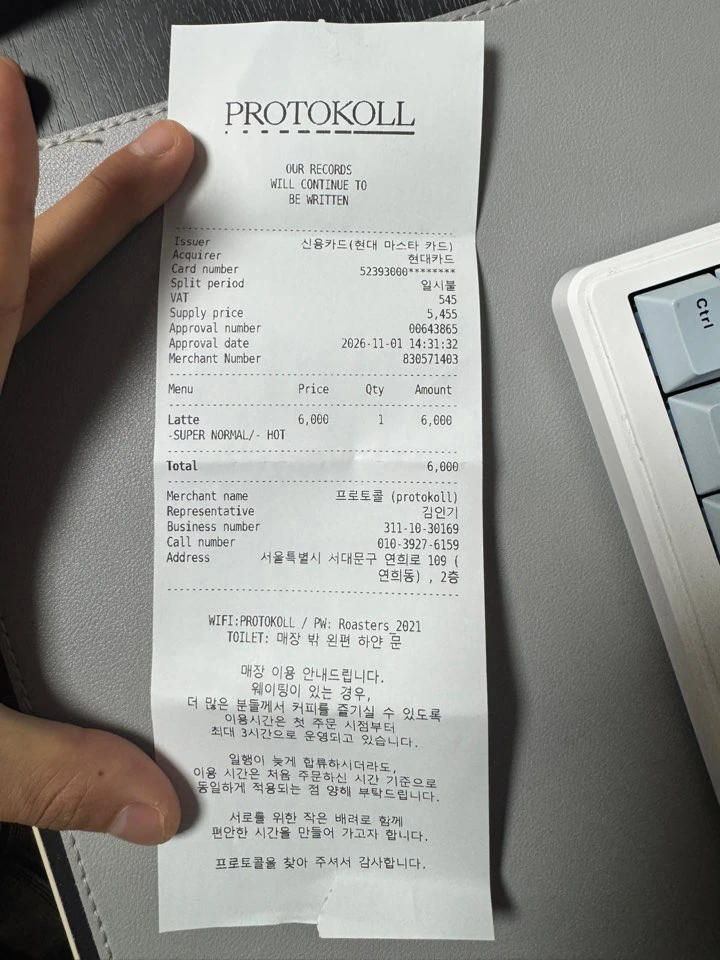
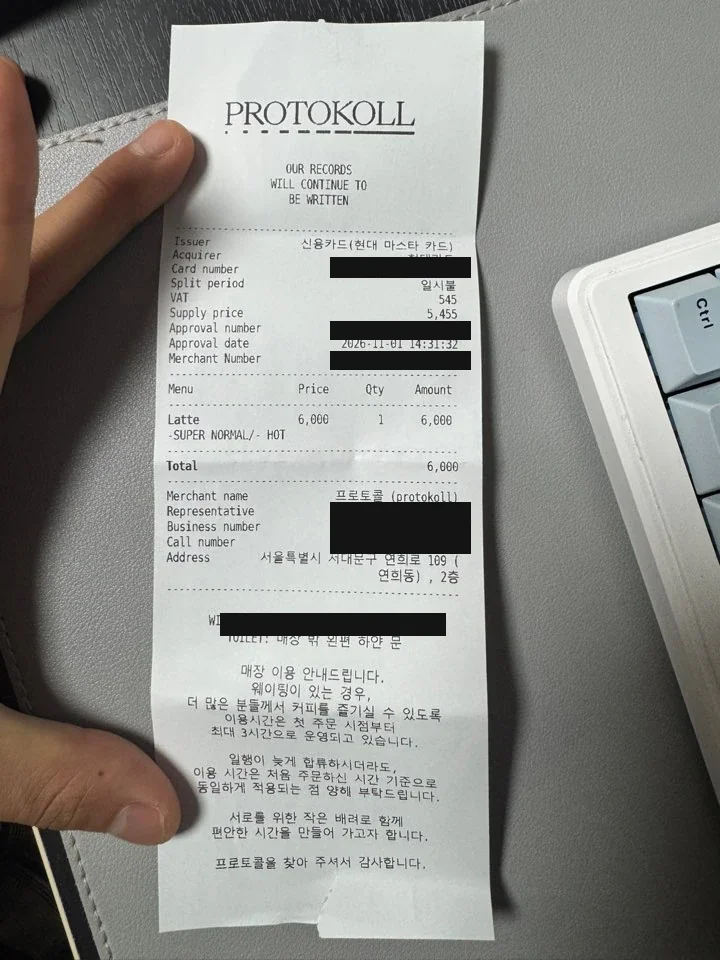
fix(receipt): 영수증 개인정보 마스킹 — 샘플 사진 11장·목업 메모·API 응답
PM 요청(2026-11-10): 카드번호·승인번호·전화번호가 그대로 노출됨.

- frontend/public/receipts 11장을 카드번호·승인번호·전화번호·대표자명·사업자번호·
  가맹점번호를 검게 칠한 판본으로 교체 (원본은 깃 제외 experiments/receipt-ocr/receipts 에만)
- mocks/receipts.json: 승인번호 뒷 4자리만, 메모에서 번호·이름 문장 삭제, 등기 수취인 삭제
- 백엔드 /api/receipt: 승인번호 ****4889 형태, notes 는 masking.mask() 통과,
  프롬프트에 '메모에 번호·이름 적지 말 것' 추가
- masking.py: 별표 섞인 카드번호, 일반전화·대표번호, 사업자등록번호 패턴 추가
- docs/API.md 3-8, README 반영 (커밋 이력의 원본은 별도 결정 필요)

Changed region(s): [[0.4583, 0.25, 0.6722, 0.4062], [0.4583, 0.5, 0.6722, 0.5938], [0.3056, 0.625, 0.6417, 0.6875]]

diff --git a/backend/app/domains/receipt/service.py b/backend/app/domains/receipt/service.py
@@ -10,6 +10,7 @@ import re
 import time
 
 from app.ai import llm
+from app.ai.masking import mask
 from app.core.config import settings
 from app.core.errors import AppError
 from app.domains.receipt.schemas import PURPOSES, ReceiptRequest, ReceiptResponse
@@ -39,6 +40,7 @@ SYSTEM = f"""당신은 한국 영수증(카드 매출전표 또는 간이 영수
 - 날짜는 YYYY-MM-DD, 시각은 24시간 HH:MM 으로 통일합니다. (예: 2026.10.20 / 26-10-20 → 2026-10-20, 오후 7:35 → 19:35)
 - 금액은 쉼표와 '원'을 빼고 정수로 적습니다. 합계는 최종 결제 금액(할인·포인트 적용 후)입니다.
 - 숫자 0 과 영문 O, 1 과 l 처럼 헷갈리는 부분, 흐려서 추정한 부분은 notes 에 적어 주세요.
+- notes 에는 카드번호·승인번호·전화번호·사업자번호·가맹점번호·사람 이름을 적지 마세요. "카드번호가 가려져 있음" 처럼 사실만 적습니다.
 
 답 형식 (키 이름은 이대로):
 {{"merchant": null, "business_type": null, "date": null, "time": null, "total_amount": null, "card_number": null,
@@ -53,7 +55,7 @@ MOCK_RESULT = {
     "time": "14:31",
     "total_amount": 6000,
     "card_last4": None,
-    "approval_no": "00000000",
+    "approval_no": "****0000",
     "items": [{"name": "아메리카노", "amount": 6000}],
     "purpose_candidates": ["식비", "회의비"],
     "confidence": "low",
@@ -78,8 +80,18 @@ def _decode_image(req: ReceiptRequest) -> bytes:
     return image
 
 
+def _mask_tail(value, keep: int = 4) -> str | None:
+    """승인번호처럼 식별용 번호는 뒷자리만 남깁니다 ("30004889" → "****4889"). 숫자가 없으면 None."""
+    if value is None:
+        return None
+    digits = re.sub(r"[^\d]", "", str(value))
+    if not digits:
+        return None
+    return "****" + digits[-keep:]
+
+
 def _clean(data: dict) -> dict:
-    """모델 출력을 응답 형식에 맞게 다듬습니다 (용도 후보는 목록 안의 값만, 금액은 정수)."""
+    """모델 출력을 응답 형식에 맞게 다듬습니다 (용도 후보는 목록 안의 값만, 금액은 정수, 개인정보는 가림)."""
     out = dict(data)
     cands = [p for p in (out.get("purpose_candidates") or []) if p in PURPOSES]
     out["purpose_candidates"] = list(dict.fromkeys(cands))[:3] or ["기타"]
@@ -109,6 +121,10 @@ def _clean(data: dict) -> dict:
             tail = raw.rsplit("*", 1)[-1] if "*" in raw else raw
             digits = re.sub(r"[^\d]", "", tail)
             out["card_last4"] = digits[-4:] if len(digits) >= 4 else None
+    # 승인번호는 뒷 4자리만, 메모 문장에 섞인 카드·전화·사업자번호는 가립니다 (PM 요청 2026-11-10)
+    out["approval_no"] = _mask_tail(out.get("approval_no"))
+    if out.get("notes"):
+        out["notes"] = mask(str(out["notes"]))
     return out
 
 

diff --git a/backend/tests/test_receipt.py b/backend/tests/test_receipt.py
@@ -72,3 +72,23 @@ def test_clean_masked_card_is_unknown():
     assert _clean({"card_number": "************1234"})["card_last4"] == "1234"
     assert "card_number" not in _clean({"card_number": "1234"})
     assert _clean({"card_number": "3600"})["card_last4"] is None  # 카드번호 길이가 아니면 버림
+
+
+def test_clean_masks_personal_numbers():
+    out = _clean({
+        "approval_no": "30004889",
+        "notes": "카드번호는 52393000******** 로 가려짐. 가맹점 전화 010-3927-6159, 대표번호 1588-1234, "
+                 "사업자번호 311-10-30169, 매장 전화 02-541-5488. 날짜 2026-11-01 은 그대로.",
+    })
+    assert out["approval_no"] == "****4889"
+    for secret in ("52393000", "3927-6159", "1588-1234", "311-10-30169", "541-5488"):
+        assert secret not in out["notes"]
+    assert "2026-11-01" in out["notes"]
+    assert _clean({"approval_no": "[30004889] KICC로제출"})["approval_no"] == "****4889"
+    assert _clean({"approval_no": None})["approval_no"] is None
+    assert _clean({"approval_no": "없음"})["approval_no"] is None
+
+
+def test_mock_result_has_no_full_numbers():
+    r = client.post("/api/receipt", json={"media_type": "image/png", "image_base64": PNG})
+    assert r.json()["approval_no"].startswith("****")

diff --git a/backend/app/ai/masking.py b/backend/app/ai/masking.py
@@ -5,10 +5,15 @@ import re
 _PATTERNS: list[tuple[re.Pattern[str], str]] = [
     # 주민등록번호 900101-1234567
     (re.compile(r"\b\d{6}-?[1-4]\d{6}\b"), "[주민번호]"),
-    # 카드번호 1234-5678-9012-3456 / 1234 5678 9012 3456
-    (re.compile(r"\b\d{4}[- ]?\d{4}[- ]?\d{4}[- ]?\d{4}\b"), "[카드번호]"),
+    # 카드번호 1234-5678-9012-3456 / 1234 5678 9012 3456 / 영수증처럼 일부가 별표인 52393000******** 도
+    (re.compile(r"(?<![\d*])[\d*]{3,4}(?:[- ]?[\d*]{3,4}){3}(?![\d*])"), "[카드번호]"),
     # 휴대전화 010-1234-5678
     (re.compile(r"\b01[016789]-?\d{3,4}-?\d{4}\b"), "[전화번호]"),
+    # 일반전화 02-541-5488 / 031-8004-0411, 대표번호 1588-1234
+    (re.compile(r"\b0\d{1,2}-\d{3,4}-\d{4}\b"), "[전화번호]"),
+    (re.compile(r"\b1[5-9]\d{2}-\d{4}\b"), "[전화번호]"),
+    # 사업자등록번호 311-10-30169
+    (re.compile(r"\b\d{3}-\d{2}-\d{5}\b"), "[사업자번호]"),
     # 이메일
     (re.compile(r"[\w.+-]+@[\w-]+\.[\w.-]+"), "[이메일]"),
     # 계좌번호 123-456789-01234 (날짜 2026-10-20 은 건드리지 않도록 마지막 묶음 4자리 이상)

diff --git a/docs/API.md b/docs/API.md
@@ -315,14 +315,14 @@ app.add_middleware(
   "time": "10:59",
   "total_amount": 20000,
   "card_last4": null,
-  "approval_no": "22989793",
+  "approval_no": "****9793",
   "items": [
     { "name": "아메리카노Hot", "amount": 4000 },
     { "name": "감자크림스프", "amount": 5000 }
   ],
   "purpose_candidates": ["식비", "회의비"],
   "confidence": "high",
-  "notes": "카드번호 뒷자리가 마스킹되어 card_last4 는 null."
+  "notes": "카드번호 뒷자리가 가려져 있어 card_last4 는 null."
 }
 ```
 
@@ -330,14 +330,17 @@ app.add_middleware(
 |---|---|
 | `date` / `time` | `YYYY-MM-DD` / 24시간 `HH:MM` |
 | `total_amount` | 쉼표·원 없는 정수 (최종 결제 금액) |
-| `card_last4` | 가려져 있으면 `null` (대부분의 영수증이 그렇습니다) |
+| `card_last4` | 뒷 4자리만. 가려져 있으면 `null` (대부분의 영수증이 그렇습니다) |
+| `approval_no` | 뒷 4자리만 `****4889` 형태로. 중복 청구 확인용이라 끝자리면 충분합니다 |
 | `purpose_candidates` | `식비 회의비 교통비 숙박비 주유비 소모품비 도서비 경조사비 기타` 중 1~3개, 가능성 높은 순 |
 | `confidence` | `high` / `medium` / `low`. 프론트는 `medium` 이하를 노란 배지로 표시합니다 |
-| `notes` | 흐림·잘림·추정한 부분. 화면에 "AI 메모"로 그대로 보여줍니다 |
+| `notes` | 흐림·잘림·추정한 부분. 화면에 "AI 메모"로 그대로 보여줍니다. 카드·전화·사업자번호가 섞여 있으면 백엔드가 `[카드번호]` 식으로 가립니다 |
 
 오류: 지원하지 않는 형식·빈 사진·10MB 초과는 400, API 키 문제는 500, 호출 제한은 429, 그 밖의 인식 실패는 502 (`{"error": ...}`).
 
 정답률 (2026-11-10, 샘플 11장, `uv run python -m scripts.eval_receipt`): 날짜·합계 100%, 가맹점 82%, 시각 82~91%, 용도 후보 82%, 전체 89%. `gpt-4o-mini` 와 `gpt-4o` 가 같아서 기본은 mini 입니다 (`RECEIPT_MODEL` 로 변경). 지난 Claude 실험(100%)보다 낮으므로 화면의 "저장 전 직접 수정" 단계가 중요합니다. 가려진 카드번호는 모델 출력 대신 백엔드가 별표 뒤 숫자만 뒷자리로 인정합니다. 실험 서버(`experiments/receipt-ocr/server.py`)는 더 이상 켤 필요가 없습니다.
+
+개인정보 (2026-11-10 PM 요청): 응답의 승인번호는 뒷 4자리만, 메모의 카드·전화·사업자번호는 가려서 내보냅니다(`app/ai/masking.py`). 화면의 샘플 사진 11장(`frontend/public/receipts/`)도 카드번호·승인번호·전화번호·대표자명·사업자번호를 검게 칠한 판본으로 바꿨습니다. 원본은 깃에 올라가지 않는 `experiments/receipt-ocr/receipts/` 에만 두고, 정답률 측정(`scripts.eval_receipt`)은 원본으로 합니다. 그래서 화면에서 샘플을 고르면 승인번호·카드 뒷자리는 비어 나오는 것이 정상입니다.
 
 ### 3-9. 정산 제출 · 검토 대기함 (`/api/submissions`, `/api/admin/submissions`) — M-01, 2026-11-09 추가
 

diff --git a/README.md b/README.md
@@ -21,7 +21,7 @@ nova-fin-assistant/
 | 규정 Q&A · 청구 검증 · 체크리스트 화면 틀 | 완료 |
 | 백엔드 호출 모듈 + 목업 모드 | 완료 |
 | 검증 결과 카드 (판정 3단계) | 완료 |
-| 영수증 등록 화면 (U-06) — 샘플 11장 + 내 사진 + 카메라 촬영, 인식값 수정, 지출 건 초안, "청구 검증으로 보내기"(법인카드 건으로 U-04 폼에 채움) | 완료 (실제 인식은 백엔드 `POST /api/receipt`, 공용 OpenAI 키 · 11/10) |
+| 영수증 등록 화면 (U-06) — 샘플 11장 + 내 사진 + 카메라 촬영, 인식값 수정, 지출 건 초안, "청구 검증으로 보내기"(법인카드 건으로 U-04 폼에 채움) | 완료 (실제 인식은 백엔드 `POST /api/receipt`, 공용 OpenAI 키 · 11/10 / 샘플 사진·응답 개인정보 마스킹 · 11/10) |
 | 관리자 정산 검토 대기함 (M-01) 와이어프레임 | 완료 (목업 데이터) |
 | 로그인(계정 선택) 화면 — 팀원 이름을 고르면 직원/관리자 화면으로 분리 진입, 고른 사번을 `X-Employee-No` 헤더로 전송 | 완료 (시연용, 비밀번호 없음. 계정은 `backend/scripts/seed.py` 와 동일) |
 | 시연용 관리자 검토함 데이터 27건 (판정별 9건, 가상 직원 27명) | 완료 (`backend/scripts/seed_demo.py` → `scripts/data/demo_submissions.json`, 팀원 11/10 패키지 기준. AI 판정은 엔진 실제 결과, 엑셀 기대와 다른 6건은 적재 시 출력) |

diff --git a/experiments/receipt-ocr/README.md b/experiments/receipt-ocr/README.md
@@ -26,6 +26,7 @@
 - 종류를 섞습니다: 식당, 카페, 편의점, 택시, 주유소, 숙박, 서점 등
 - 상태도 섞습니다: 선명한 것, 흐린 것, 구겨진 것, 세로로 긴 것
 - **카드번호 앞자리, 이름 등 개인정보는 가리고 찍습니다.** 사진은 깃에 올라가지 않도록 설정되어 있습니다.
+- 화면 샘플(`frontend/public/receipts/`)은 이 폴더의 원본에 검은 박스를 씌운 판본입니다. 원본을 바꾸면 마스킹 스크립트(좌표 수동)를 다시 돌려야 하니 사진을 추가할 때는 번호·이름을 가리고 찍는 편이 빠릅니다.
 
 ### 2. 정답지 작성
 
